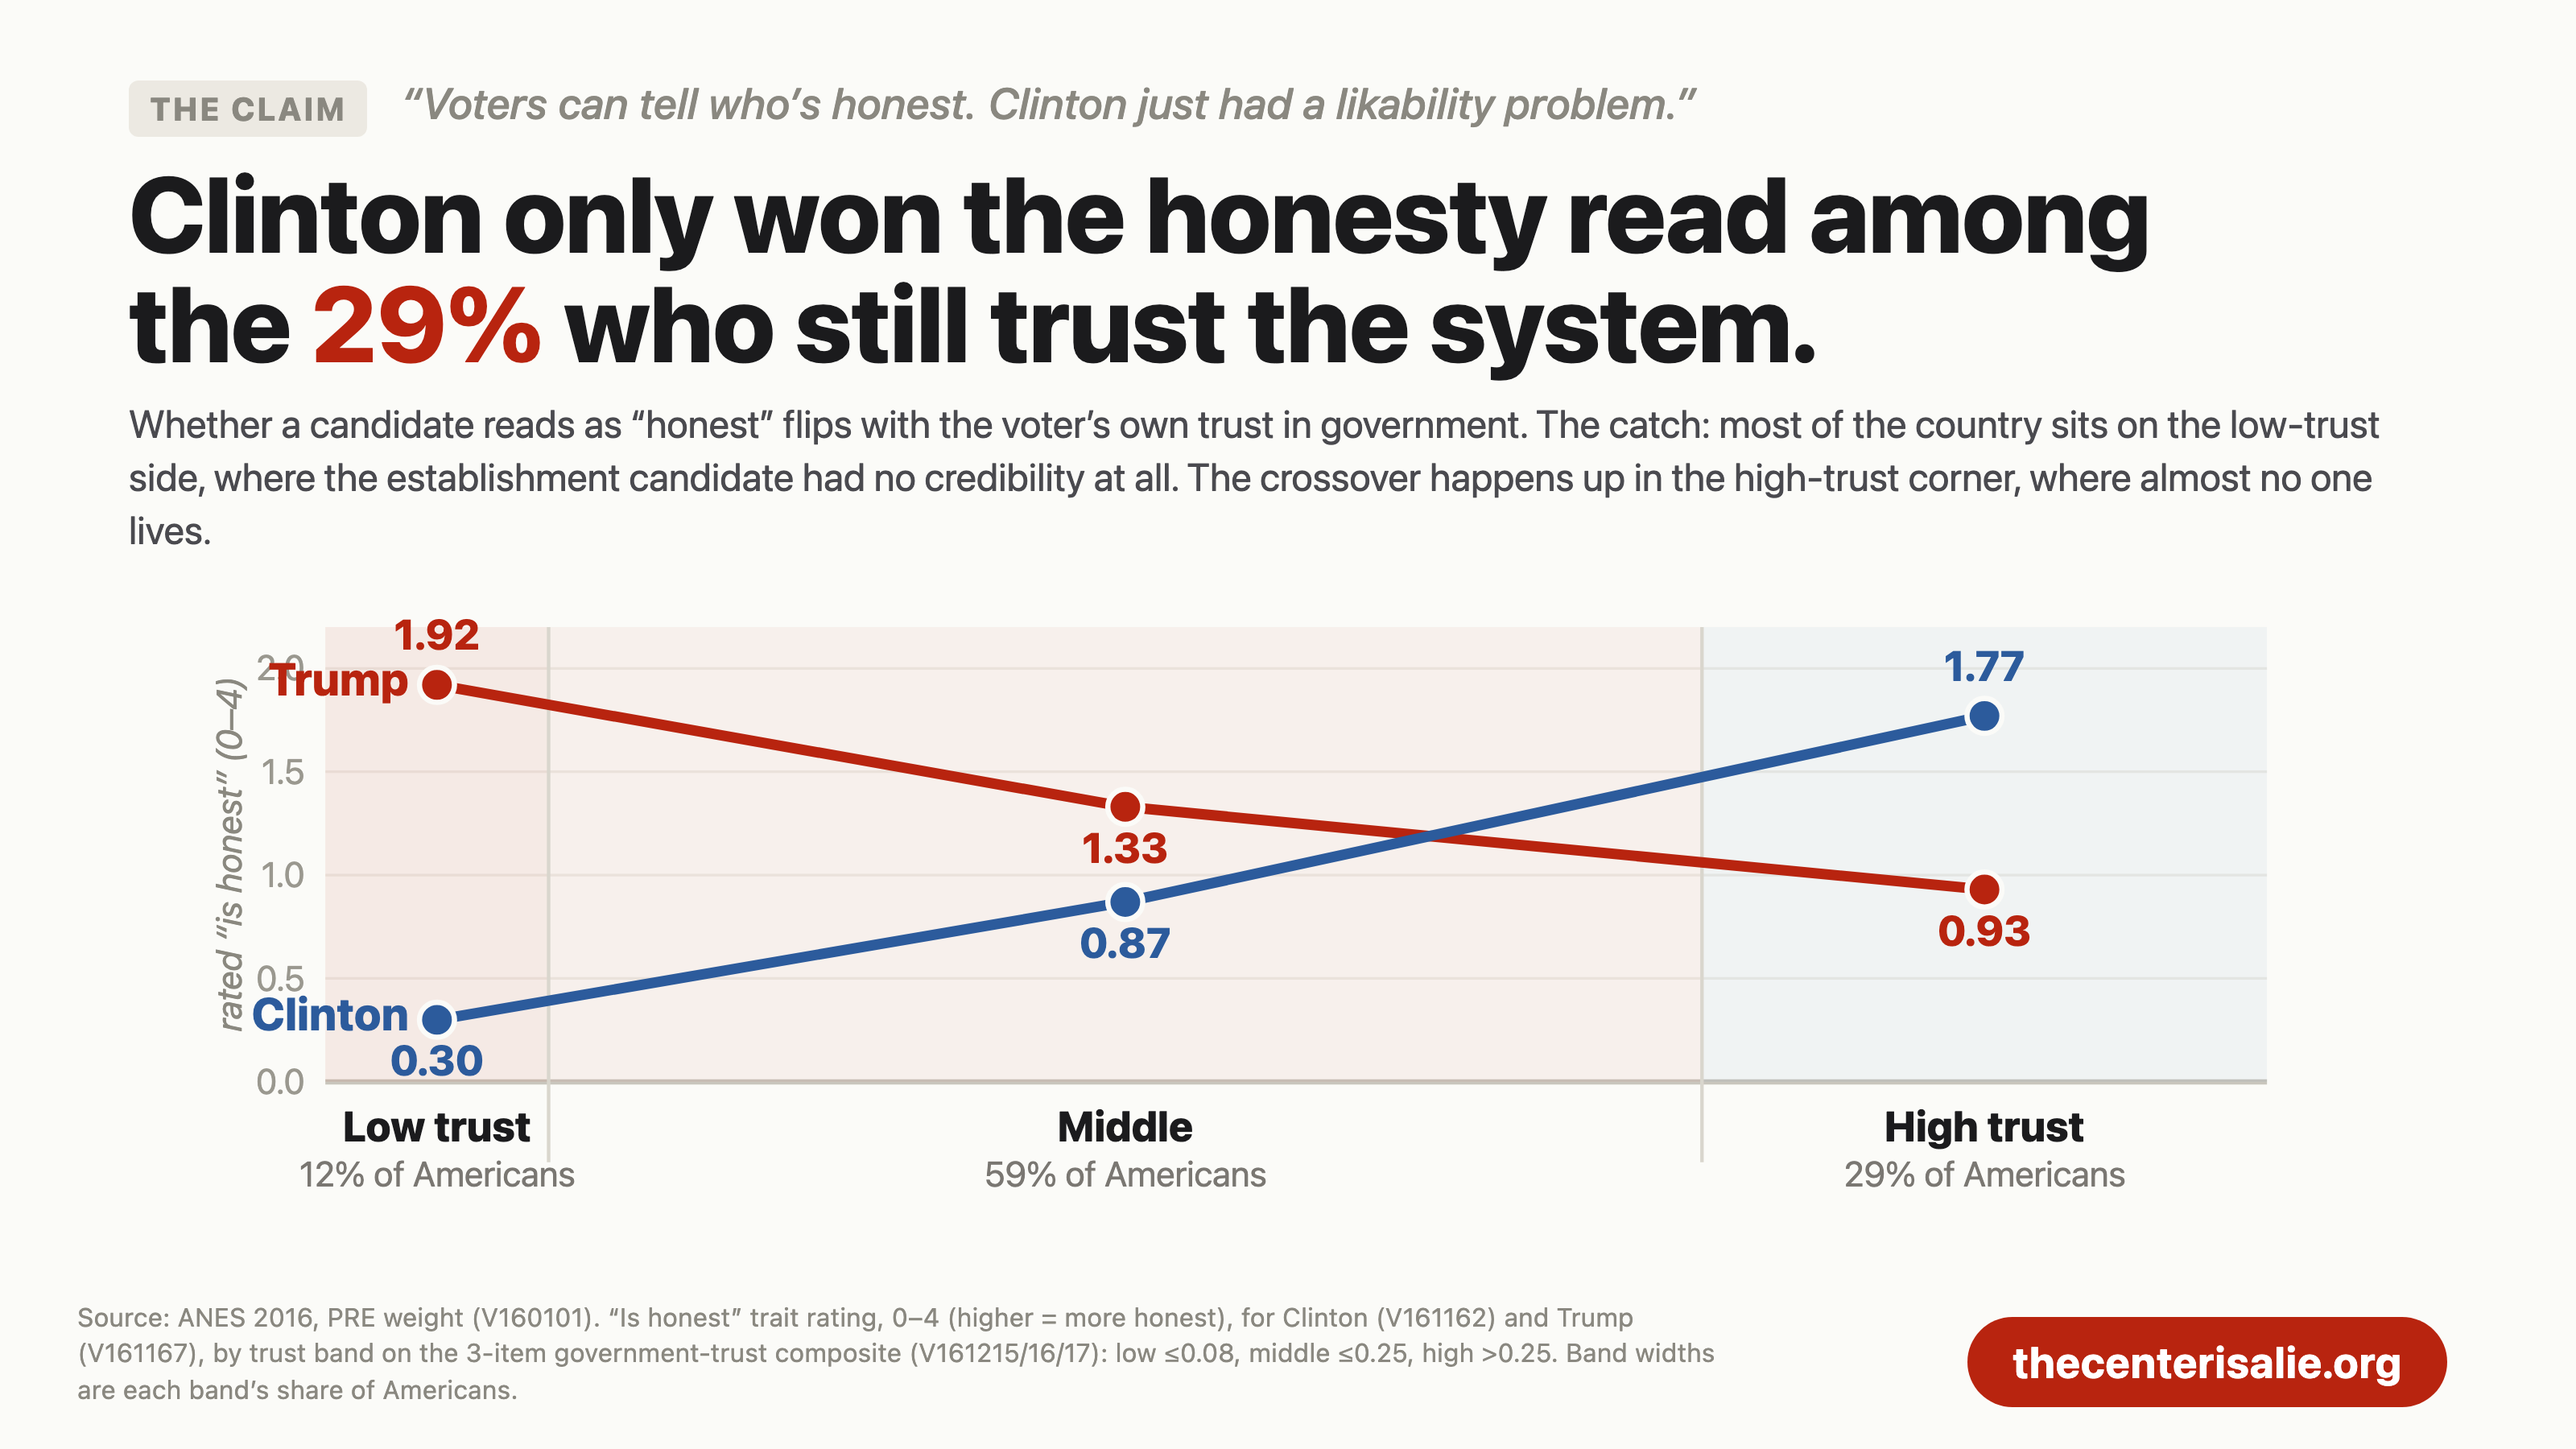
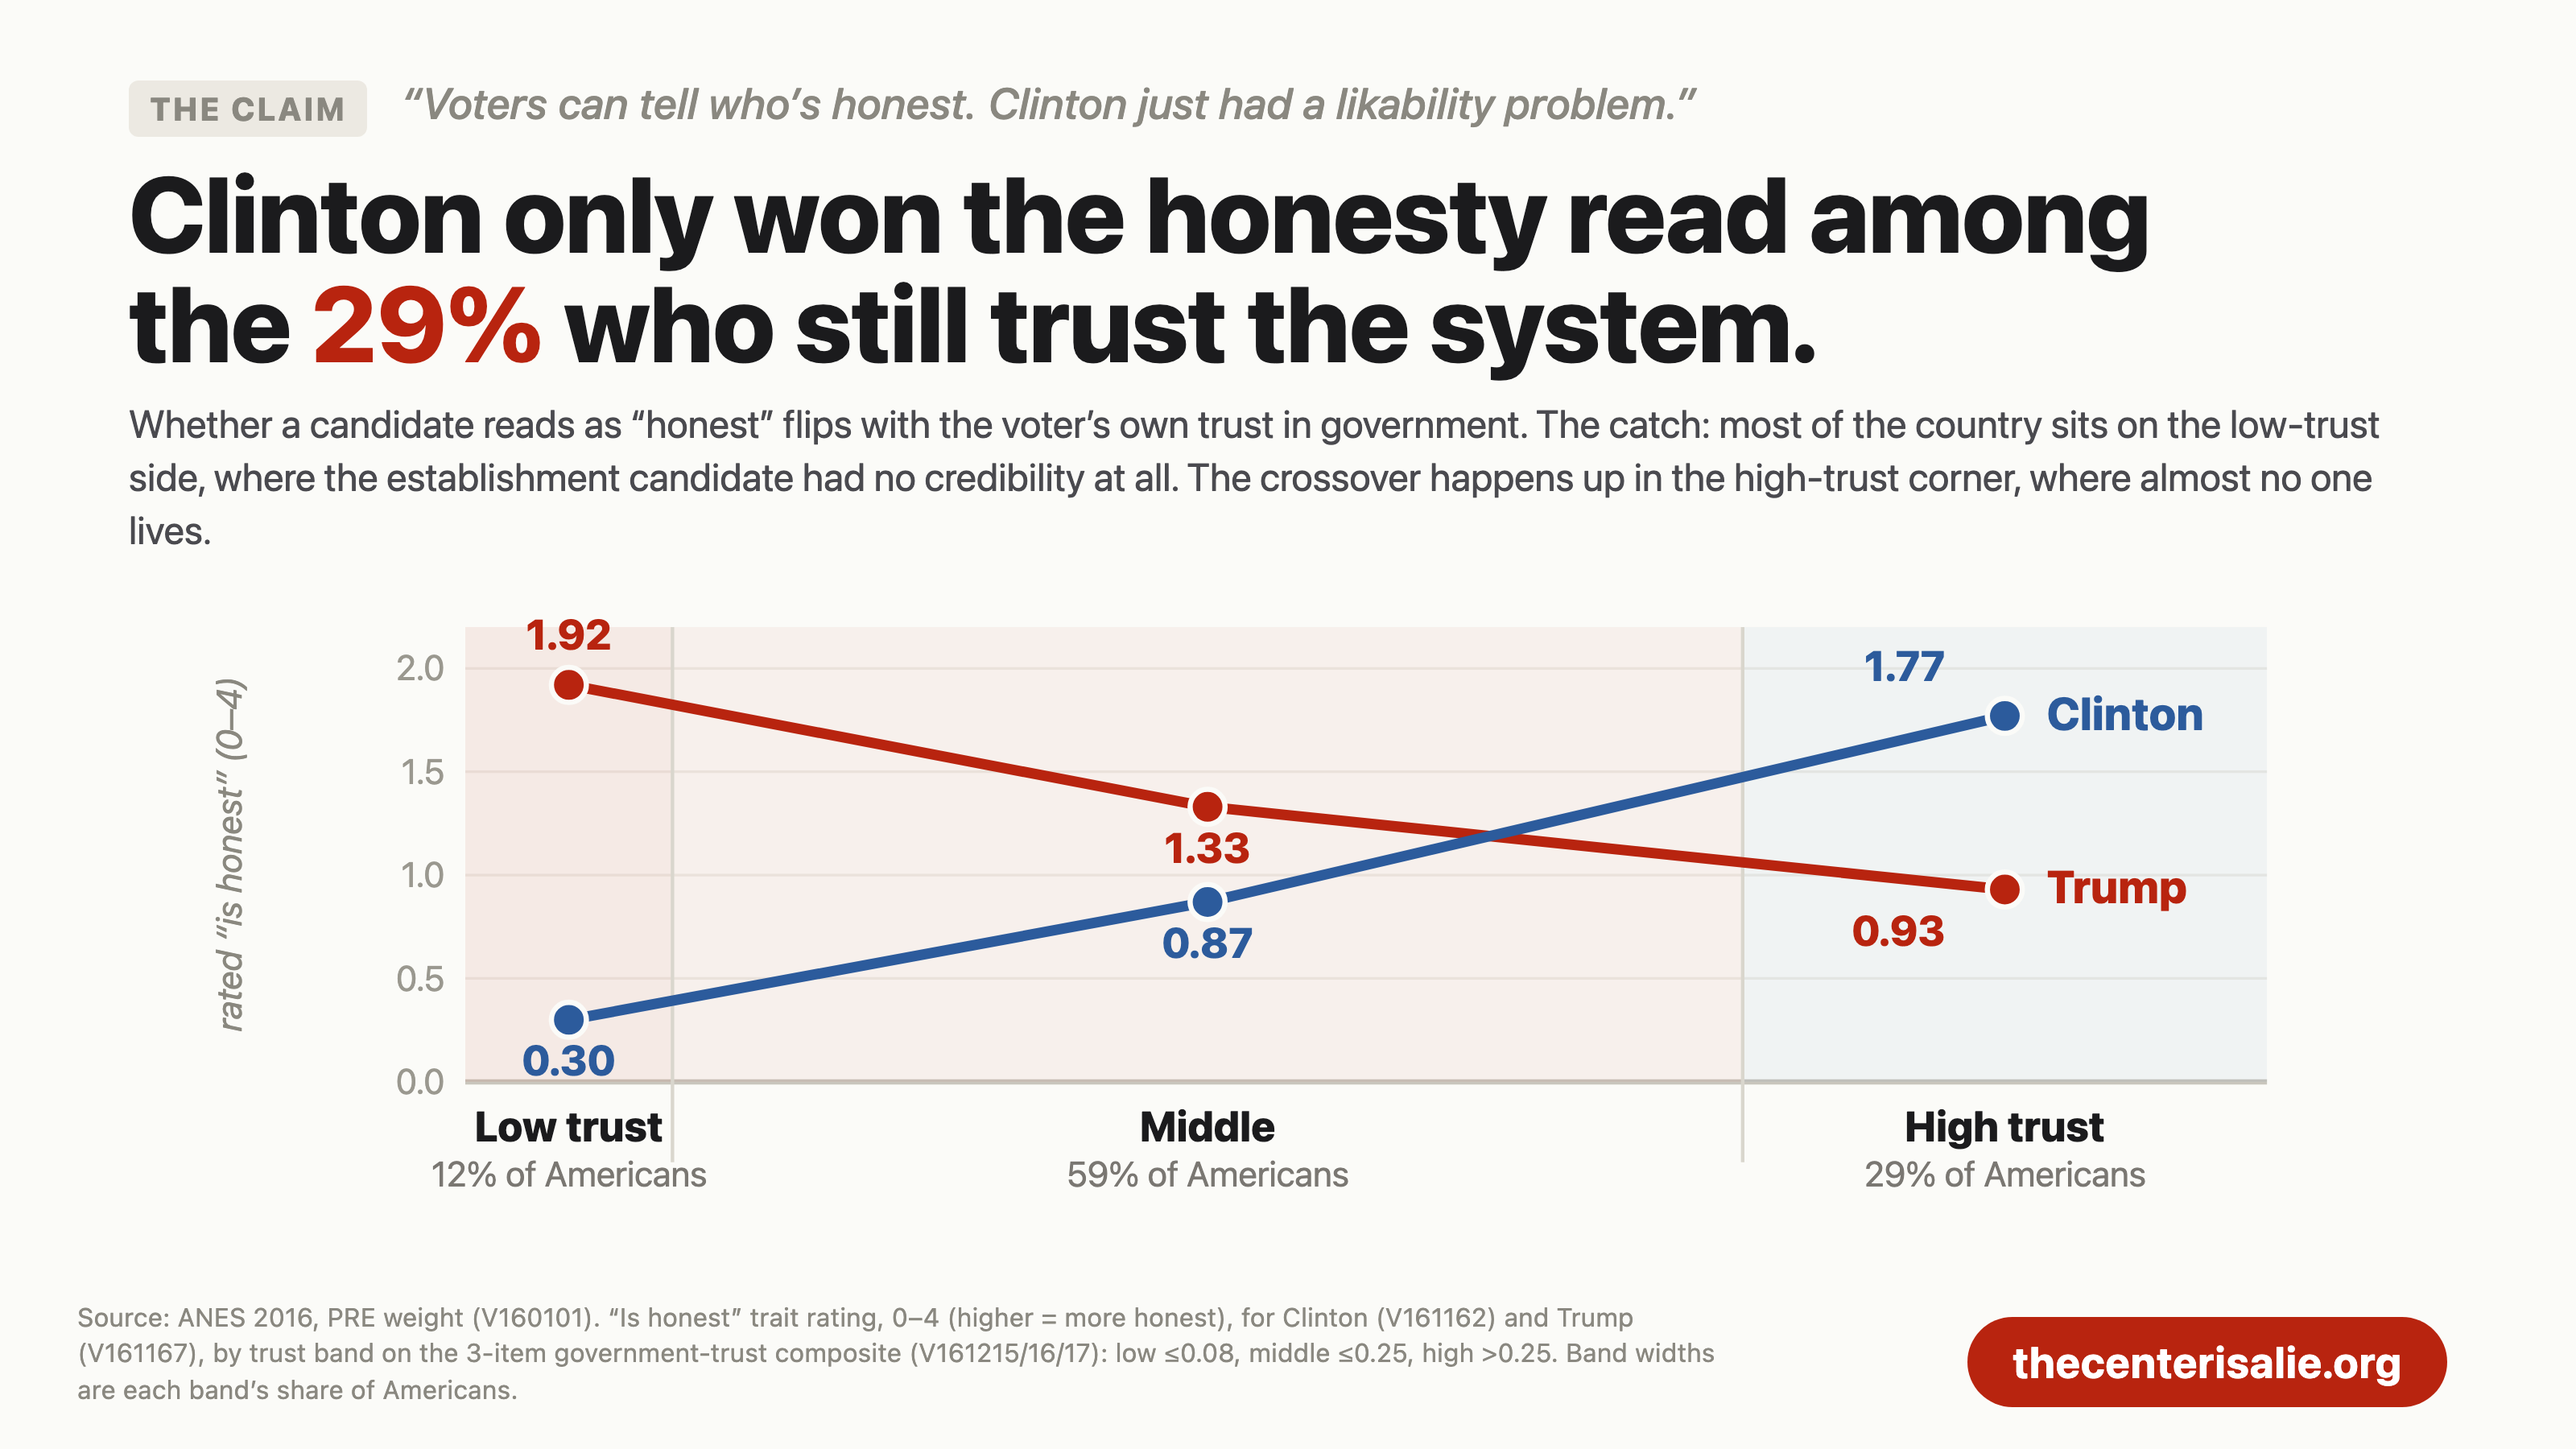
build(og): add automated text-overlap detection to the render guard
I kept fixing label collisions one at a time by eye and missing others. The
render script now measures every <text> node's rendered box
(getBoundingClientRect, so rotation is handled) and fails loudly on any pair
whose overlap covers >14% of the smaller label. Same mechanism as the existing
clip / dead-space guards: it prints "TEXT OVERLAP: A x B" per card so the whole
deck is checked in one pass instead of by screenshot.

First run flagged 5 real collisions across 2 cards, now fixed:
- authenticity: value labels and candidate names sat on the y-axis ticks. Moved
  the plot right and relocated the names to the open right end, values pulled
  inward on the last band.
- insideoutside: the two-line column headers ("Left on" / "issues") overlapped;
  widened the line spacing 22 -> 30.

All 33 cards now pass clip, dead-space, and text-overlap clean.

diff --git a/web/og-cards/chart-authenticity.html b/web/og-cards/chart-authenticity.html
@@ -27,7 +27,7 @@
       { key: 'Middle',       share: 59.4, cl: 0.87, tr: 1.33 },
       { key: 'High trust',   share: 29.1, cl: 1.77, tr: 0.93 },
     ];
-    const X0 = 70, X1 = 1180, W = X1 - X0, TOP = 40, BOT = 300, YMAX = 2.2;
+    const X0 = 150, X1 = 1180, W = X1 - X0, TOP = 40, BOT = 300, YMAX = 2.2;
     const y = (v) => BOT - v / YMAX * (BOT - TOP);
 
     // y grid 0..2
@@ -56,11 +56,17 @@
       let d = '';
       bands.forEach((b, i) => { d += (i ? ' L ' : 'M ') + cx[i] + ' ' + y(b[key]); });
       svg.appendChild(el('path', { d, fill: 'none', stroke: col, 'stroke-width': 6 }));
+      const last = bands.length - 1;
       bands.forEach((b, i) => {
         svg.appendChild(el('circle', { cx: cx[i], cy: y(b[key]), r: 10, fill: col, stroke: '#fbfbf8', 'stroke-width': 3 }));
-        txt({ x: cx[i], y: y(b[key]) + (b[key] > 1.4 ? -20 : 32), 'text-anchor': 'middle', fill: col, 'font-size': 24, 'font-weight': 800 }, b[key].toFixed(2));
+        // value above the dot for the upper line, below for the lower line, so
+        // the two lines' labels never meet; the last band pulls its value
+        // slightly inward (toward center) to leave the right edge for the name
+        const above = b[key] > 1.4;
+        txt({ x: i === last ? cx[i] - 34 : cx[i], y: y(b[key]) + (above ? -20 : 32), 'text-anchor': i === last ? 'end' : 'middle', fill: col, 'font-size': 24, 'font-weight': 800 }, b[key].toFixed(2));
       });
-      txt({ x: cx[0] - 16, y: y(bands[0][key]) + 6, 'text-anchor': 'end', fill: col, 'font-size': 26, 'font-weight': 800 }, name);
+      // name sits at the open right end, past the last dot, clear of its value
+      txt({ x: cx[last] + 24, y: y(bands[last][key]) + 8, 'text-anchor': 'start', fill: col, 'font-size': 26, 'font-weight': 800 }, name);
     };
     line('tr', '#b8240f', 'Trump');
     line('cl', '#2c5b9c', 'Clinton');

diff --git a/web/og-cards/chart-insideoutside.html b/web/og-cards/chart-insideoutside.html
@@ -42,7 +42,7 @@
 
       // header: narrow columns sit a row higher so nothing collides
       const hy = c.tight ? TOP - 66 : TOP - 40;
-      c.name.forEach((ln, k) => txt({ x: mid, y: hy - (c.name.length - 1 - k) * 22, 'text-anchor': 'middle',
+      c.name.forEach((ln, k) => txt({ x: mid, y: hy - (c.name.length - 1 - k) * 30, 'text-anchor': 'middle',
         fill: blank ? '#6b6b70' : c.c, 'font-size': 23, 'font-weight': 800 }, ln));
       txt({ x: mid, y: hy + 24, 'text-anchor': 'middle', fill: '#9a988f', 'font-size': 21, 'font-weight': 700 }, c.col.toFixed(0) + '%');
       if (c.tight) svg.appendChild(el('line', { x1: mid, y1: hy + 34, x2: mid, y2: TOP - 6, stroke: '#c9c6bd', 'stroke-width': 2 }));
